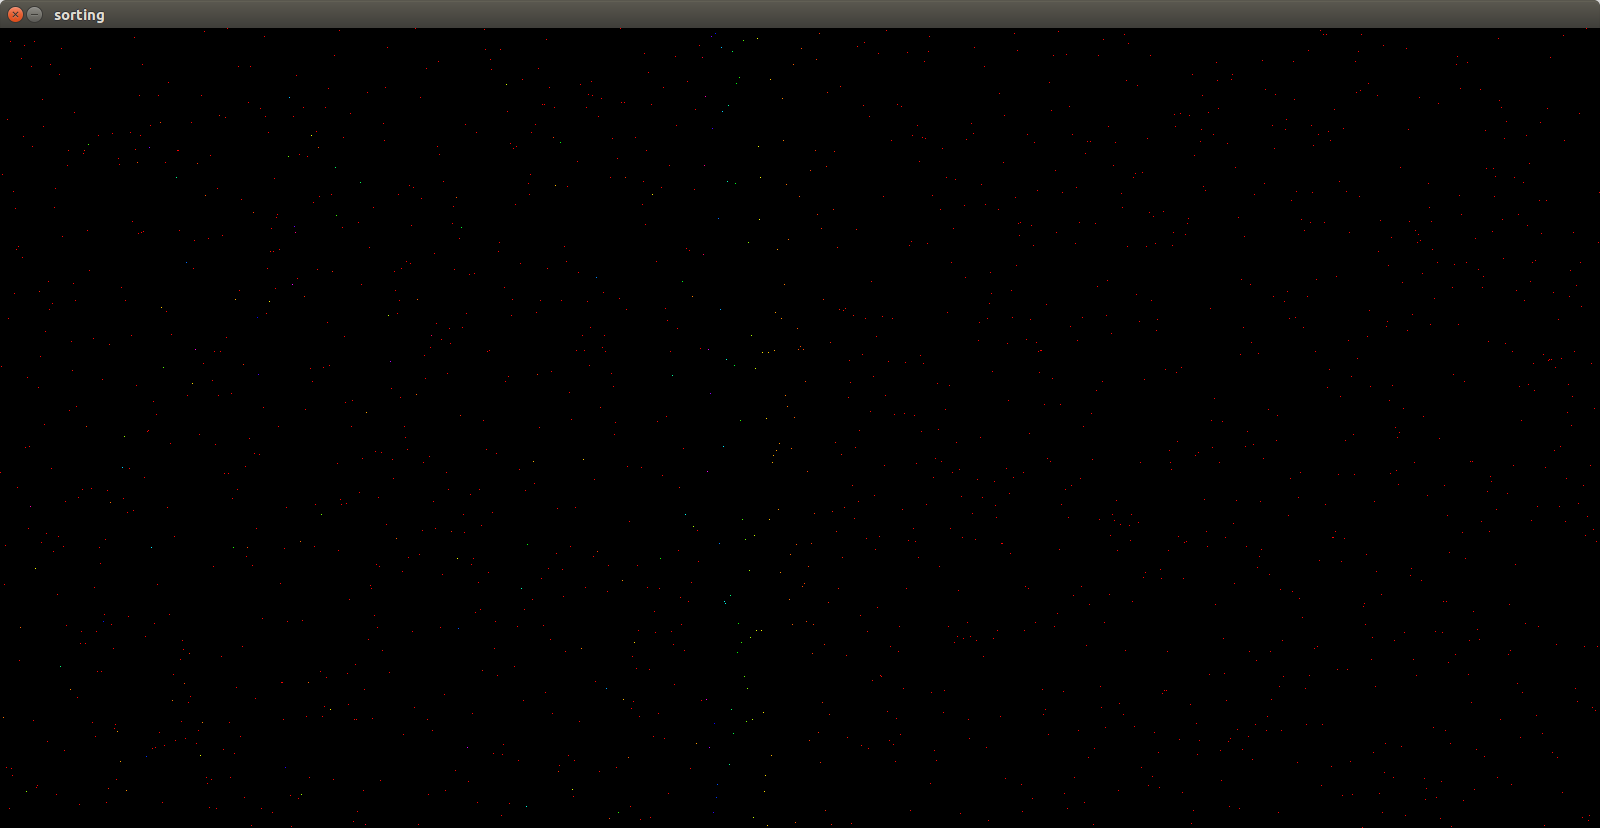
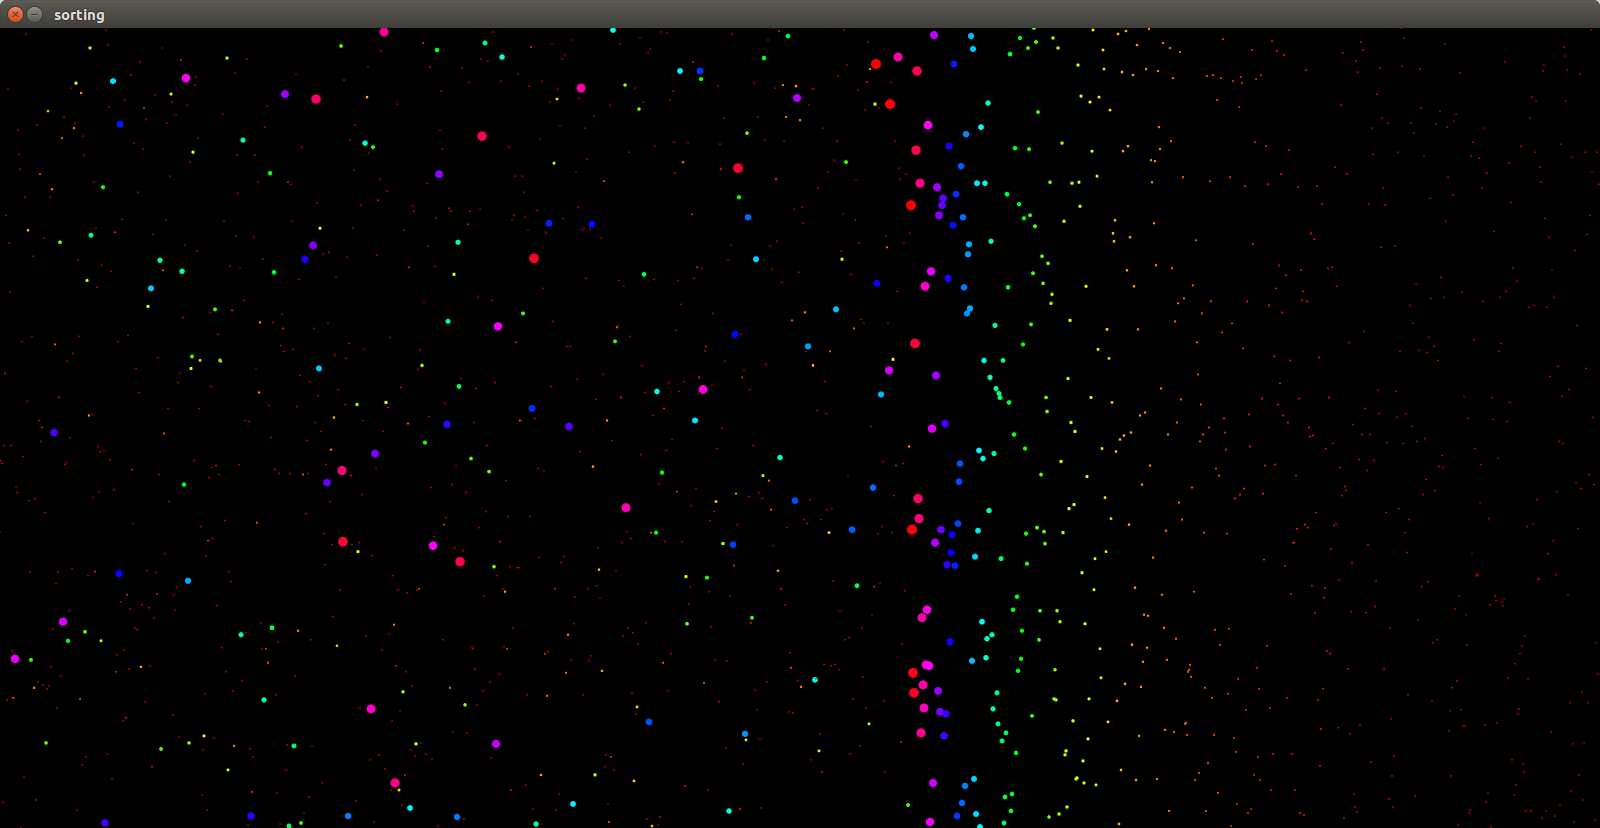
ellipses

diff --git a/pure/lsd_radix_sort.py b/pure/lsd_radix_sort.py
@@ -1,5 +1,7 @@
 """
-Least Significant Digit radix sort in Python.
+Least Significant Digit radix sort in Python. Modified to be in-place, and
+simultaneously rewrite to list and fill buckets, so uses a little more
+auxiliary space. Includes a wrapper to determine the max length.
 """
 
 import itertools
@@ -8,16 +10,21 @@ import math
 from sort_util import *
 
 def _lsd_radix_sort(l, base, max_digits):
+    bucks = [l]
     for power in range(max_digits):
-        bucks = [[] for i in range(base)]
-        for item in l:
-            bucks[(item // base ** power) % base].append(item)
-        for ind, val in enumerate(itertools.chain.from_iterable(bucks)):
-            l[ind] = val
+        _bucks = [[] for i in range(base)]
+        for ind, item in enumerate(itertools.chain.from_iterable(bucks)):
+            l[ind] = item
+            _bucks[(item // base ** power) % base].append(item)
+        bucks = _bucks
+    else:
+        for ind, item in enumerate(itertools.chain.from_iterable(bucks)):
+            l[ind] = item
 
 def lsd_radix_sort(l, base=10):
-    max_digits = int(math.log(max(l), base) + 1)
-    _lsd_radix_sort(l, base, max_digits)
+    if l:
+        max_digits = int(math.log(max(l), base) + 1)
+        _lsd_radix_sort(l, base, max_digits)
 
 if __name__ == "__main__":
     main(lsd_radix_sort)

diff --git a/lsd_radix_sort.py b/lsd_radix_sort.py
@@ -2,14 +2,19 @@ import itertools
 import math
 
 def _lsd_radix_sort(l, base, max_digits):
+    bucks = [l]
     for power in xrange(max_digits):
-        bucks = [[] for i in xrange(base)]
-        for item in l:
-            yield item,
-            bucks[(item // base ** power) % base].append(item)
+        _bucks = [[] for i in xrange(base)]
+        for ind, buckit in enumerate(itertools.chain.from_iterable(bucks)):
+            yield ind,
+            l[ind] = buckit
+            _bucks[(buckit // base ** power) % base].append(buckit)
+        bucks = _bucks
+    else:
         for ind, val in enumerate(itertools.chain.from_iterable(bucks)):
             yield ind,
             l[ind] = val
+        bucks = _bucks
 
 def lsd_radix_sort(l, base=10):
     max_digits = int(math.log(max(l), base) + 1)

diff --git a/README.md b/README.md
@@ -13,7 +13,7 @@ The slightly more esoteric bitonic sort:
 
 ![screenshot](https://github.com/elterminad0r/sorting/blob/master/data/bitonic.png)
 
-An LSD radix sort:
+An appropriately named LSD radix sort:
 
 ![screenshot](https://github.com/elterminad0r/sorting/blob/master/data/lsd_radix.png)
 
